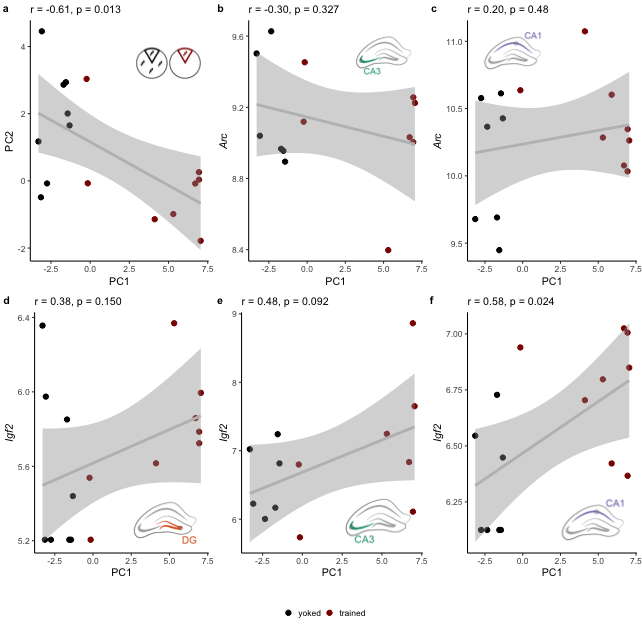
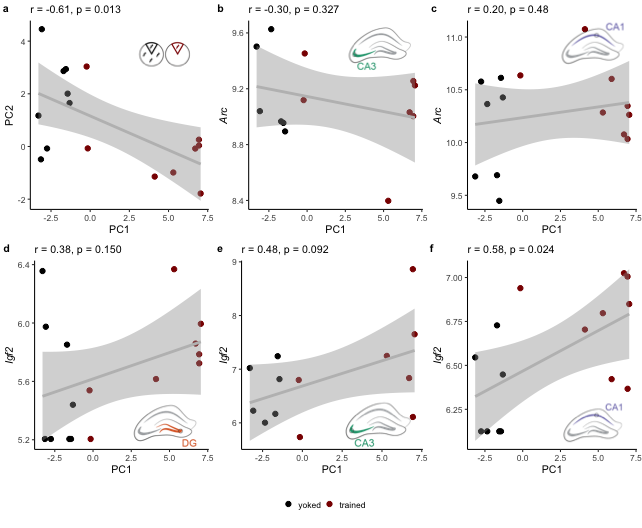
moregenes

diff --git a/scripts/06_searchfavgenes.md b/scripts/06_searchfavgenes.md
@@ -261,7 +261,7 @@ correlations with PC1
 
     p1 <- plotcorrelation(vsdDG, vsdDG$PC1, vsdDG$PC2) + 
       labs(x = "PC1", y = "PC2", subtitle = "r = -0.61, p = 0.013")  + 
-        annotation_custom(icontrainedyoked, ymin = 3, ymax = 4, xmin = 2.5, xmax = 7.5)
+        annotation_custom(icontrainedyoked, ymin = 3, ymax = 4, xmin = 2.5, xmax = 7)
 
 
     p2 <- plotcorrelation(vsdCA3, vsdCA3$PC1, vsdCA3$Arc) + 
@@ -270,12 +270,12 @@ correlations with PC1
             legend.position = "bottom",
             legend.title = element_blank(),
             legend.key.size =  unit(0.25, "cm")) +
-      annotation_custom(iconCA3, ymin = 9.3, ymax = 9.7, xmin = 3, xmax = 7)
+      annotation_custom(iconCA3, ymin = 9.3, ymax = 9.7, xmin = 2.5, xmax = 7)
 
     p3 <- plotcorrelation(vsdCA1, vsdCA1$PC1, vsdCA1$Arc)  + 
       labs(x = "PC1", y = "Arc", subtitle = "r = 0.20, p = 0.48") + 
       theme(axis.title.y = element_text(face = "italic")) +
-        annotation_custom(iconCA1, ymin = 10.5, ymax = 11.3, xmin = -2.6, xmax = 1.5) 
+        annotation_custom(iconCA1, ymin = 10.5, ymax = 11.3, xmin = 2.5, xmax = 7) 
 
     cor.test(vsdDG$PC1, vsdDG$Igf2, method = c("pearson"))
 
@@ -354,14 +354,14 @@ correlations with PC1
 
 ![](../figures/06_favegenes/supplefig3-2.png)
 
-    pdf(file="../figures/06_favegenes/supplfig3.pdf", width=6.69, height=6.69)
+    pdf(file="../figures/06_favegenes/supplfig3.pdf", width=6.69, height=5.5)
     plot(supplfig3)
     dev.off()
 
     ## quartz_off_screen 
     ##                 2
 
-    pdf(file="../figures/supplfig3.pdf", width=6.69, height=6.69)
+    pdf(file="../figures/supplfig3.pdf", width=6.69, height=5.5)
     plot(supplfig3)
     dev.off()
 
